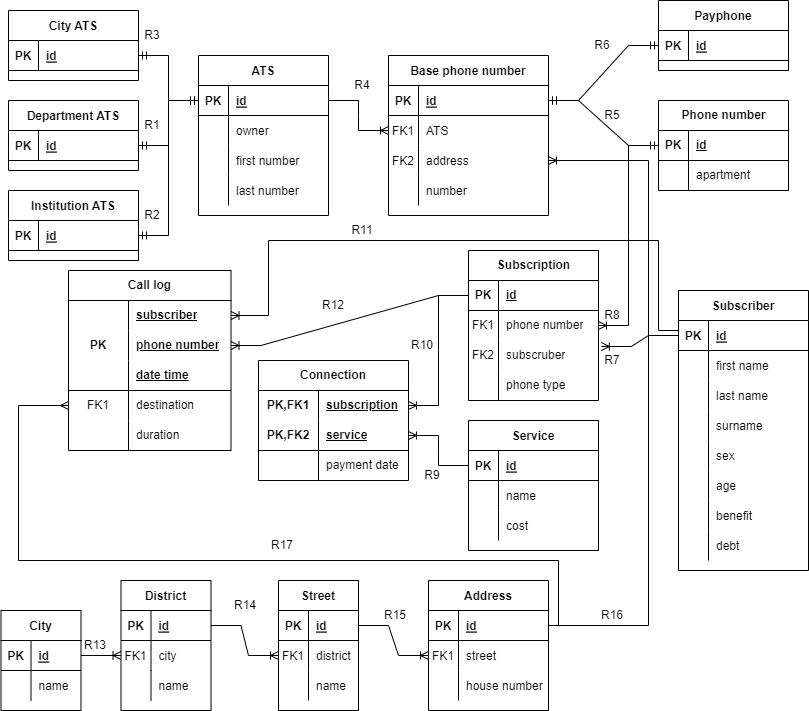
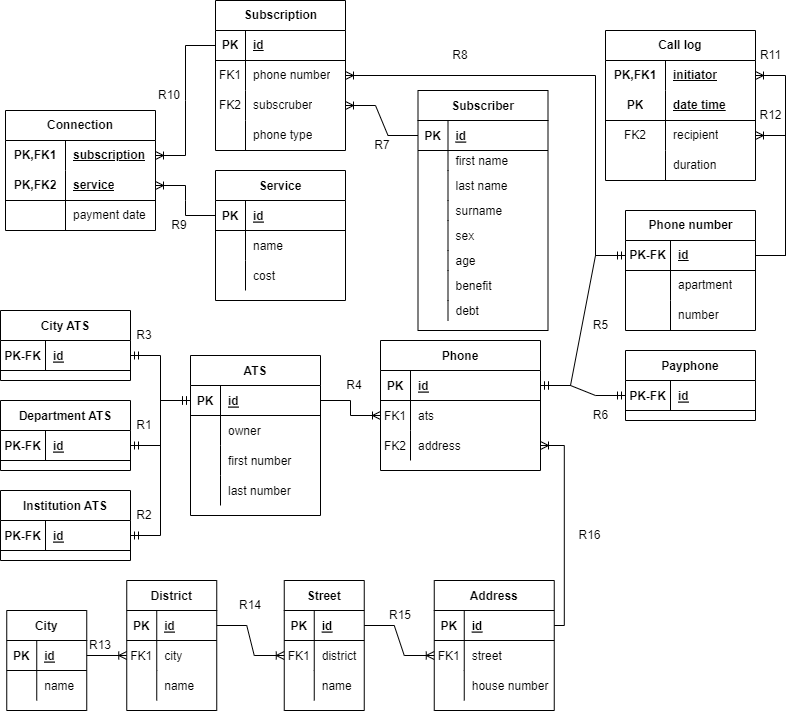
DB create script and logical refator

diff --git a/report/sections/infological.tex b/report/sections/infological.tex
@@ -40,29 +40,26 @@
     \item задолжность (описательный)
 \end{itemize}
 
-\textbf{Номер телефона}. Каждый номер должен принадлежать какой-то АТС, 
-чтобы избежать коллизий. Поэтому у номера телефона есть сам номер
-и АТС, которой он принадлежит. Кроме того, у телефона есть адрес дома,
+\textbf{Телефон}. Эта сущность является супертипом для номера телефона, 
+которым будет пользоваться абонент, и таксофона, который не принадлежит
+никакому абоненту. Каждый телефон принадлежит какой-то АТС и имеет адрес дома,
 в котором он находится (или у которого он находится, в случае таксофона)
-\newline\textbf{Номер телефона}:
+\newline\textbf{Телефон}:
 \begin{itemize}
     \item идентификатор
-    \item номер (указывающий)
     \item АТС (вспомогательный)
     \item адрес (описателный)
 \end{itemize}
-Сущность номер телефона является супертипом для обычного номера, 
-которым будет пользоваться абонент, и таксофона, который не принадлежит
-никакому абоненту. У обычного номера телефона имеется номер квартиры, 
-в которой он находится. 
+В дополнение к этому, номер телефона характеризуется 
+самим цифровым номером и номером квартиры, в которой он находится. 
 
-\textbf{Абонемент}. Абонемент закрепляет обычный номер телефона за абонентом.
+\textbf{Абонемент}. Абонемент закрепляет номер телефона за абонентом.
 Кроме того, абонемент фиксирует тип конечного 
-устройства абонента (основной, параллельный, спареный). 
+устройства абонента (основной, параллельный, спаренный). 
 \newline\textbf{Абонемент}:
 \begin{itemize}
     \item идентификатор
-    \item обычный номер телефона (вспомогательный)
+    \item номер телефона (вспомогательный)
     \item абонент (вспомогательный)
     \item тип телефона (описателный)
 \end{itemize}
@@ -89,18 +86,15 @@
 \end{itemize}
 
 \textbf{Журнал звонков}. Эта сущность необходима для сбора сведений 
-о всех произошедших звонках. Любой звонок имеет дату и время начала,
-длительность и пункт назначения. Чтобы избежать потери истории звонков, 
-здесь не используется сущность Абонемент, 
-так как абонент может отказаться от абонемента по разным причинам, 
-например если он продал квартиру.
+о всех произошедших звонках. Любой звонок имеет инициатора и получателя, 
+дату и время начала, длительность. Время звонка и инициатор 
+будут первичным ключом.
 \newline\textbf{Журнал звонков}:
 \begin{itemize}
-    \item абонент (вспомогательный)
-    \item обычный номер телефона (вспомогательный)
+    \item номер телефона инициатора (вспомогательный)
+    \item номер телефона получателя (вспомогательный)
     \item дата и время (указывающий)
     \item длительность (описателный)
-    \item пункт назначения (описателный)
 \end{itemize}
 
 Кроме вышеописанных сущностей нам понадобится сущности предстваляющие карту 
@@ -139,31 +133,30 @@
     R1 & АТС - ведомственная АТС & 1:1 & Связь супертип-подтип \\
     R2 & АТС - учрежденческая АТС & 1:1 & Связь супертип-подтип \\
     R3 & АТС - городская АТС & 1:1 & Связь супертип-подтип \\
-    R4 & АТС - номер телефона & 1:M & 
-        К АТС подключено множество номеров. У каждого номера только одна АТС \\
-    R5 & Номер телефона - обычный номер телефона & 1:1 & 
+    R4 & АТС - телефон & 1:M & 
+        К АТС подключено множество телефонов. У каждого телефона только одна АТС \\
+    R5 & Телефон - номер телефона & 1:1 & 
         Связь супертип-подтип \\
-    R6 & Номер телефона - таксофон & 1:1 & 
+    R6 & Телефон - таксофон & 1:1 & 
         Связь супертип-подтип \\
     R7 & Абонент - абонемент & 1:M & 
         У абонента может быть несколько абонементов (номеров телефонов).
         Абонемент имеет только одного абонента \\
-    R8 & Обычный номер телефона - абонемент & 1:M & 
+    R8 & Номер телефона - абонемент & 1:M & 
         Один и тот же номер может быть в нескольких абонементах, 
         если у абонента параллельный телефон, иначе только в одном 
-        абонементе. Абонемент имеет только один номер \\
+        абонементе. Абонемент имеет только один номер телефона \\
     R9 & Услуга - подключение услуги & 1:M & 
         Услугу могут подключить несколько абонентов. Каждое подключение
-        имеет только одну услугу \\
+        содержит только одну услугу \\
     R10 & Абонемент - подключение услуги & 1:M & 
         Абонент может подключить несколько услуг. У подключения только 
         один абонент \\
-    R11 & Абонент - журнал звоноков & 1:M &
-        Абонент может совершить несколько звонков. У каждого звонка 
-        один инициатор \\
-    R12 & Обычный номер телефона - журнал звоноков & 1:M &
+    R11 & Номер телефона инициатора - журнал звоноков & 1:M &
         Звонки совершаются с разных номеров. У каждого звонка 
         один номер инициатора \\
+    R12 & Номер телефона получателя - журнал звоноков & 1:M &
+        Аналогично \\
     R13 & Город - район & 1:M & 
         Район находится в городе. Следовательно, у города 
         может быть несколько районов, у района - один город \\
@@ -174,9 +167,6 @@
     R16 & Адрес - номер телефона & 1:M & 
         По одному адресу может находиться несколько телефонов. У каждого
         телефона один адрес \\
-    R17 & Адрес - журнал звонков & 1:M & 
-        Звонок совершается на определенный адрес. На один и тот 
-        же адрес можно звонить несколько раз \\
 \end{longtblr}
 
 Все связи представленные в таблице являются безусловными. То есть у каждого 
@@ -189,7 +179,7 @@
 
 Сущности АТС, абонент, услуга и город - стержневые, так как независимы. 
 
-Номер телефона - характеристичекая сущность, 
+Телефон - характеристичекая сущность, 
 так как характеризует АТС, к которой будет принадлежать абонент, и не может
 существовать без АТС.
 
@@ -198,8 +188,8 @@
 Подключение услуги - ассоциативная сущность, описывающая связь M:N между 
 абонементом и услугой.
 
-Журнал звоноков - характеристичекая сущность, так как 
-описывает звонки совершенные абонентом.
+Журнал звоноков - ассоциативная сущность, так как 
+описывает звонки между абонентами.
 
 Район, улица и адрес (номер дома) являются характеристичекими сущностями, 
 так как являются частью адреса.
@@ -211,19 +201,19 @@
 \section{Инфологическая модель}
 Описание модели на языке инфологического проектирования:
 \newline\textbf{АТС} (идентификатор, владелец, первый телефон, последний телефон)
-\newline\textbf{Городская АТС} [АТС 1] (идентификатор)
-\newline\textbf{Учрежденческая АТС} [АТС 1] (идентификатор)
-\newline\textbf{Ведомственная АТС} [АТС 1] (идентификатор)
+\newline\textbf{Городская АТС} [АТС 1] (атс)
+\newline\textbf{Учрежденческая АТС} [АТС 1] (атс)
+\newline\textbf{Ведомственная АТС} [АТС 1] (атс)
 \newline\textbf{Абонент} (идентификатор, ФИО, пол, возраст, льгота, задолжность)
-\newline\textbf{Номер телефона} [АТС 1, Номер телефона M] [Адрес 1, Номер телефона M] (идентификатор, АТС, номер, адрес)
-\newline\textbf{Обычный номер телефона} [Номер телефона 1] (идентификатор, квартира)
-\newline\textbf{Таксофон} [Номер телефона 1] (идентификатор)
-\newline\textbf{Абонемент} [Обычный номер телефона M, абонент N] (идентификатор, 
-обычный номер телефона, абонент, тип телефона)
+\newline\textbf{Телефон} [АТС 1, Адрес 1, Номер телефона M] (идентификатор, атс, адрес)
+\newline\textbf{Номер телефона} [Телефон 1] (телефон, номер телефона, квартира)
+\newline\textbf{Таксофон} [Телефон 1] (телефон)
+\newline\textbf{Абонемент} [Номер телефона M, Абонент N] (идентификатор, 
+номер телефона, абонент, тип телефона)
 \newline\textbf{Услуга} (идентификатор, название, стоимость)
 \newline\textbf{Подключение услуги} [Абонемент M, Услуга N] (абонемент, услуга, дата оплаты)
-\newline\textbf{Журнал звонков} [Обычный номер телефона M, абонент N] [Адрес 1, звонок M] 
-(абонент, обычный номер телефона, дата и время, длительность, пункт назначения)
+\newline\textbf{Журнал звонков} [Номер телефона M, Номер телефона N] 
+(номер инициатора, номер получателя, дата и время, длительность)
 \newline\textbf{Город} (идентификатор, название)
 \newline\textbf{Район} [Город 1, Район M] (идентификатор, город, название)
 \newline\textbf{Улица} [Район 1, Улица M] (идентификатор, район, название)

diff --git a/report/sections/logical.tex b/report/sections/logical.tex
@@ -27,61 +27,65 @@
 
 \section{Реляционная схема}
 
-Для типа телефона создадим новое перечисление phone\_type =
-(``Common'', ``Parallel'', ``Paired'').
+Все ссылочные (целевые) отношения имеют сурогатный ключ, который
+нам незачем изменять. Поэтому для обеспечения ссылочной целостности
+при удалении будем использовать политику каскадного удаления, 
+а при обновлении - ничего не делать.
 
+Кроме того, нам понадобится тип конечного устройства (телефона) - перечисление 
+device\_type = (``Common'', ``Parallel'', ``Paired''). 
+\newpage
 \begin{longtblr}[caption={Реляционная схема базы данных}, theme = TC,]{
-        colspec={|X[3]|X[3]|X[2]|X[1]|X[4]|}, row{1} = {c}, hlines,
+        colspec={|X[3]|X[3]|X[3]|X[1]|X[4]|}, row{1} = {c}, hlines,
     }
     Отношение & Атрибут & Тип & Not null & Ограничения \\
-    \SetCell[r=4]{c} ATS & id & serial & + & PK \\ 
-    & owner & varchar$[30]$ & - & \\
-    & first number & int & + & $(0, 1'000'000'000)$ \\
-    & last number & int & + & $(1, 1'000'000'000)$ \\ 
-    \SetCell[r=1]{c} City ATS & id & int & + & PK-FK \\
-    \SetCell[r=1]{c} Department ATS & id & int & + & PK-FK \\
-    \SetCell[r=1]{c} Institution ATS & id & int & + & PK-FK \\ 
-    \SetCell[r=4]{c} Base phone number & id & bigserial & + & PK \\
-    & ATS & int & + & FK \\ 
-    & number & int & + & $(1, 1'000'000'000)$ \\
-    & address & int & + & FK \\ 
-    \SetCell[r=1]{c} Payphone & id & bigint & + & PK-FK \\
-    \SetCell[r=2]{c} Phone number & id & bigint & + & PK-FK \\ 
-    & apartment & int & - & $>0$\\ 
-    \SetCell[r=8]{c} Subsriber & id & bigserial & + & PK \\ 
-    & first name & varchar$[20]$ & + & \\
-    & last name & varchar$[30]$ & + & \\
-    & surname & varchar$[20]$ & - & \\
-    & sex & char$[1]$ & - & `m' или `f' \\
-    & age & smallint & - & $(13, 131)$ \\ 
-    & benefit & smallint & + & $[0, 100], default=0$ \\ 
-    & debt & bigint & + & $\geq 0, default=0$ \\ 
-    \SetCell[r=4]{c} Subsription & id & bigserial & + & PK \\ 
-    & phone number & bigint & + & FK \\
-    & subsriber & bigint & + & FK \\
-    & phone type & phone\_type & + & $default=$ Common \\ 
-    \SetCell[r=3]{c} Service & id & serial & + & PK \\ 
-    & name & varchar$[20]$ & + & \\
-    & cost & int & + & $\geq 0, default=0$ \\
-    \SetCell[r=3]{c} Connection & subsription & bigserial & + & PK-FK \\ 
-    & service & int & + & PK-FK \\
-    & payment date  & date & + & $default=$ current date \\
-    \SetCell[r=5]{c} Call log & subsriber & bigint & + & PK-FK \\ 
-    & phone number & bigint & + & PK-FK \\
-    & date time & timestamptz & + & PK \\
-    & destination & int & + & FK \\
+    \SetCell[r=4]{c} ATS & ats\_id & serial & + & PK \\ 
+    & ats\_owner & text & - & \\
+    & first\_phone\_no & int & + & $(0, 1'000'000'000)$ \\
+    & last\_phone\_no & int & + & $(1, 1'000'000'000)$, $last>first$ \\ 
+    \SetCell[r=1]{c} City ATS & ats\_id & int & + & PK-FK \\
+    \SetCell[r=1]{c} Department ATS & ats\_id & int & + & PK-FK \\
+    \SetCell[r=1]{c} Institution ATS & ats\_id & int & + & PK-FK \\ 
+    \SetCell[r=3]{c} Phone & phone\_id & serial & + & PK \\
+    & ats\_id & int & + & FK \\ 
+    & address\_id & int & + & FK \\ 
+    \SetCell[r=1]{c} Payphone & phone\_id & int & + & PK-FK \\
+    \SetCell[r=3]{c} Phone number & phone\_id & int & + & PK-FK \\ 
+    & apartment & int & - & $>0$ \\ 
+    & phone\_no & int & + & $(0, 1'000'000'000)$ \\
+    \SetCell[r=8]{c} Subsriber (Абонент) & subsriber\_id & serial & + & PK \\ 
+    & first\_name & text & + & \\
+    & last\_name & text & + & \\
+    & surname & text & - & \\
+    & sex & char (1) & - & `m' или `f' \\
+    & age & smallint & - & $[14, 130]$ \\ 
+    & benefit & numeric (3, 2) & + & $[0, 1.00], default=0$ \\ 
+    & debt & numeric (10, 2) & + & $\geq 0, default=0$ \\ 
+    \SetCell[r=4]{c} Subsription (Абонемент) & subsription\_id & serial & + & PK \\ 
+    & phone\_id & int & + & FK \\
+    & subsriber\_id & int & + & FK \\
+    & phone\_type & device\_type & + & $default=$ Common \\ 
+    \SetCell[r=3]{c} Service (Услуга) & service\_id & serial & + & PK \\ 
+    & service\_name & text & + & \\
+    & service\_cost & numeric (10, 2) & + & $\geq 0, default=0$ \\
+    \SetCell[r=3]{c} Service Connection & subsription\_id & int & + & PK-FK \\ 
+    & service\_id & int & + & PK-FK \\
+    & payment\_date & date & + & $default=$ current date \\
+    \SetCell[r=4]{c} Call log & initiator & int & + & PK-FK \\ 
+    & call\_time & timestamptz & + & PK \\
+    & recipient & int & + & FK \\
     & duration & int & + & $>0, default=1$ \\
-    \SetCell[r=2]{c} City & id & serial & + & PK \\ 
-    & name & varchar$[20]$ & + & \\ 
-    \SetCell[r=3]{c} District & id & serial & + & PK \\ 
-    & city & int & + & FK \\ 
-    & name & varchar$[30]$ & + & \\ 
-    \SetCell[r=3]{c} Street & id & serial & + & PK \\ 
-    & district & int & + & FK \\ 
-    & name & varchar$[30]$ & + & \\ 
-    \SetCell[r=3]{c} Address & id & serial & + & PK \\ 
-    & street & int & + & FK \\ 
-    & house number & smallint & + & $>0$ \\ 
+    \SetCell[r=2]{c} City & city\_id & serial & + & PK \\ 
+    & city\_name & text & + & \\ 
+    \SetCell[r=3]{c} District & district\_id & serial & + & PK \\ 
+    & city\_id & int & + & FK \\ 
+    & district\_name & text & + & \\ 
+    \SetCell[r=3]{c} Street & street\_id & serial & + & PK \\ 
+    & district\_id & int & + & FK \\ 
+    & street\_name & text & + & \\ 
+    \SetCell[r=3]{c} Address & address\_id & serial & + & PK \\ 
+    & street\_id & int & + & FK \\ 
+    & house\_no & int & + & $>0$ \\ 
 \end{longtblr}
 
 \begin{figure}[!ht]
